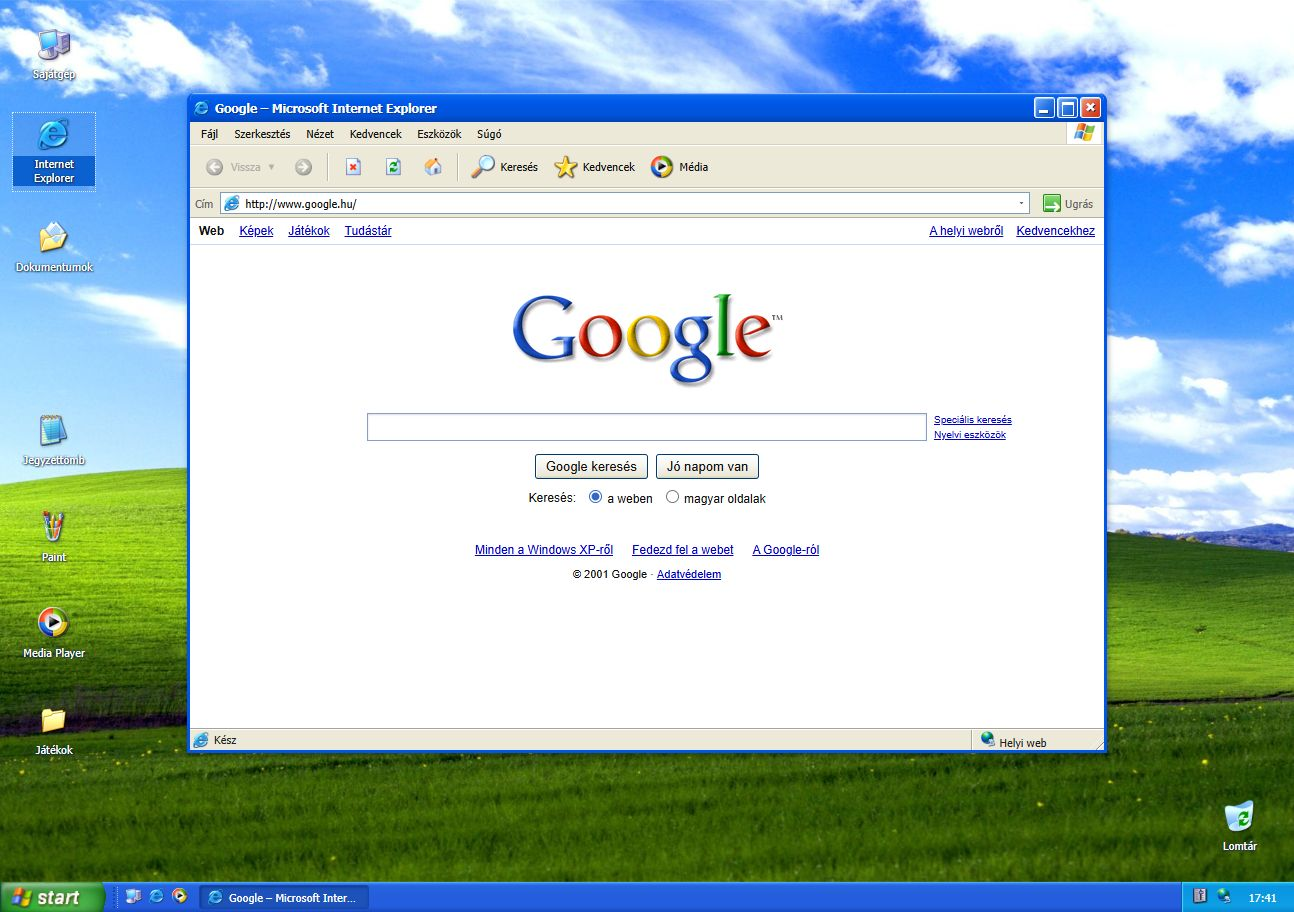
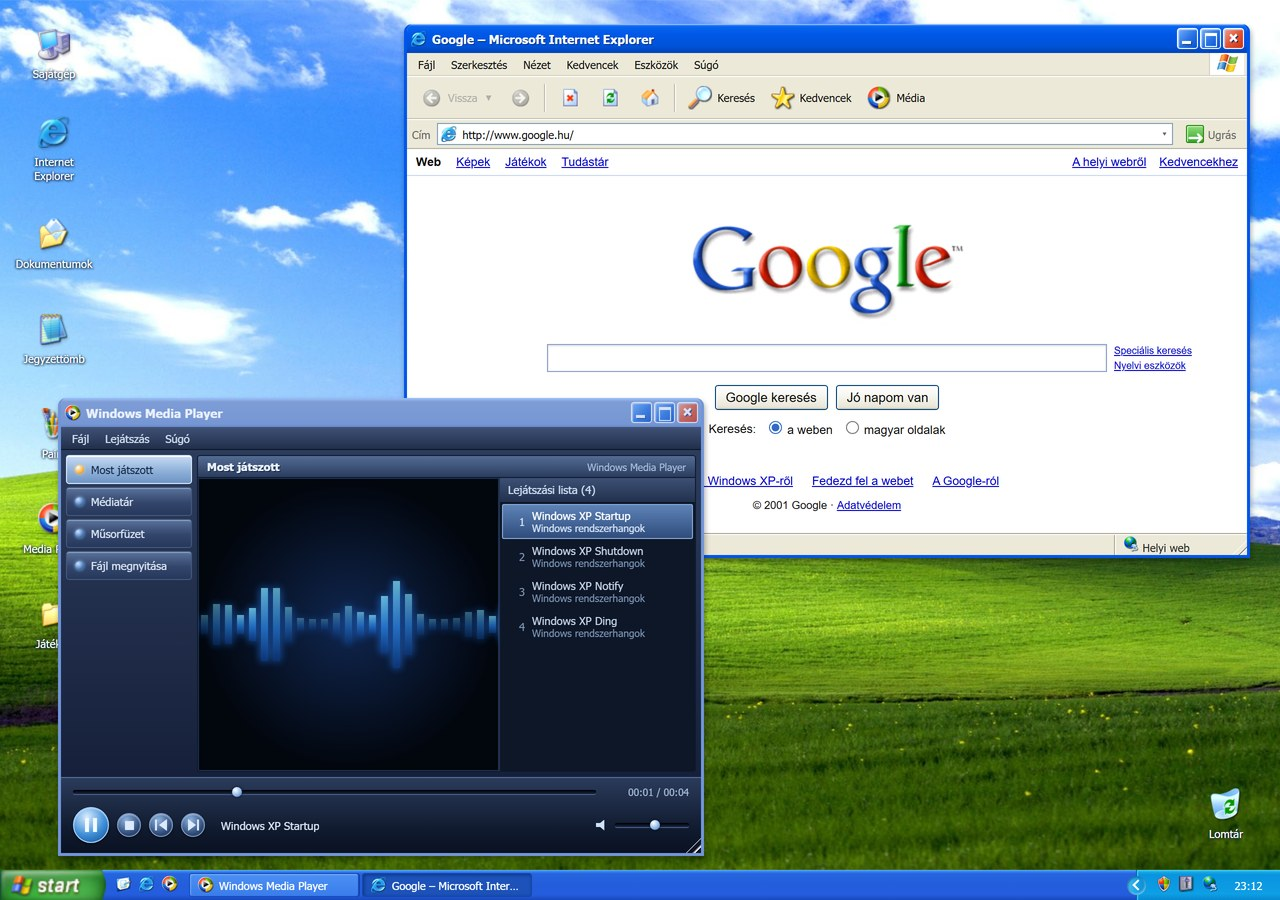
docs: refresh the screenshot for what the desktop looks like now
The picture at the top of the README predated the Media Player rework,
the account tiles and the Start button's redrawn edge. It is now a fresh
capture of the running page, with the Media Player in front so the 9
Series layout is the first thing a visitor sees.

diff --git a/README.md b/README.md
@@ -1,6 +1,6 @@
 # Windows XP szimulátor
 
-![Windows XP szimulátor – asztal és Internet Explorer](docs/screenshot.jpg)
+![Windows XP szimulátor – asztal a Windows Media Playerrel és az Internet Explorerrel](docs/screenshot.jpg)
 
 Függőségek nélküli, magyar nyelvű Windows XP-élmény HTML, CSS és JavaScript használatával.
 
